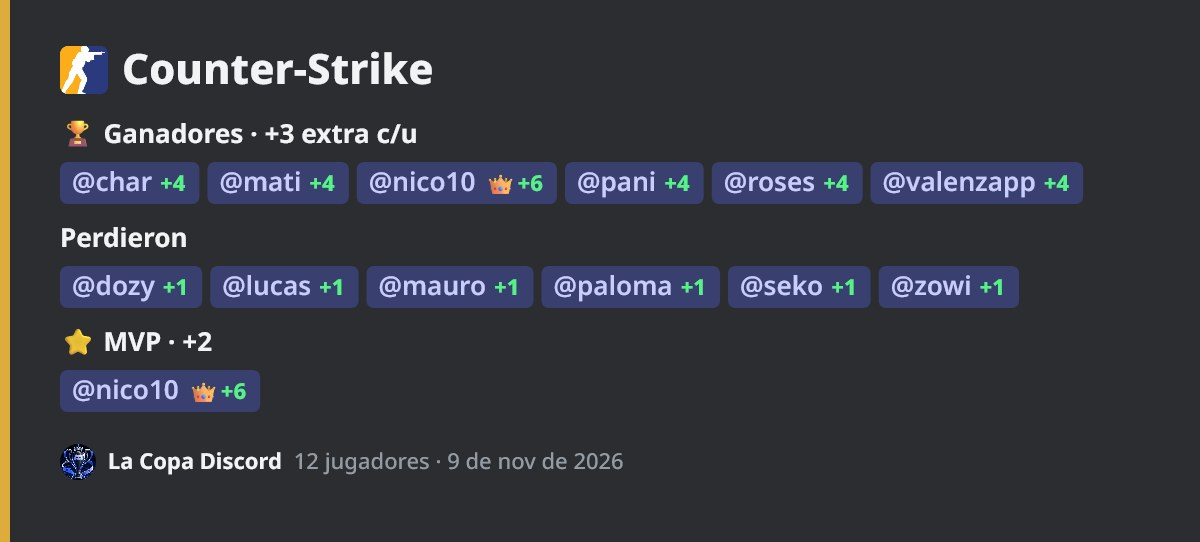
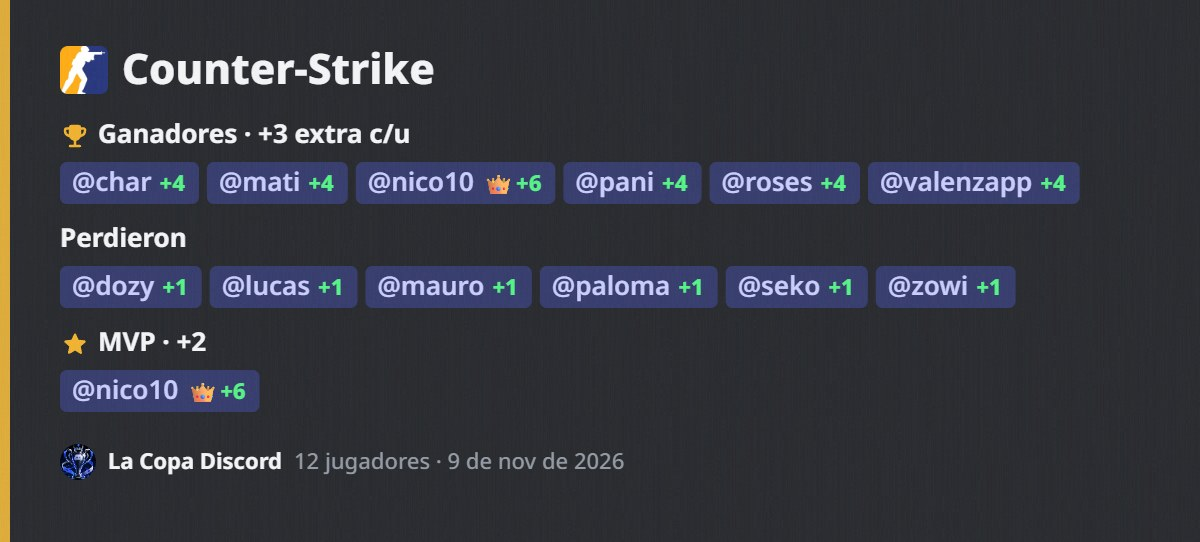
Actualizar tabla desde el modo admin

diff --git a/data.js b/data.js
@@ -1,6 +1,6 @@
 // Datos de La Copa Discord. Se edita desde el canal #admin de la página.
 window.COPA_DATA = {
- "updatedAt": 1794266610688,
+ "updatedAt": 1794267814003,
  "players": [
   "agus",
   "alan",
@@ -999,6 +999,82 @@ window.COPA_DATA = {
     "valenzapp"
    ],
    "mvp": "nico10"
+  },
+  {
+   "id": "mmw9wq75350hf",
+   "date": "2026-11-09",
+   "game": "CS",
+   "kind": "team",
+   "teams": [
+    {
+     "name": "Equipo 1",
+     "players": [
+      "nico10",
+      "pani",
+      "valenzapp",
+      "char",
+      "roses",
+      "mati"
+     ],
+     "mvp": "nico10"
+    },
+    {
+     "name": "Equipo 2",
+     "players": [
+      "lucas",
+      "mauro",
+      "zowi",
+      "paloma",
+      "seko",
+      "dozy"
+     ],
+     "mvp": null
+    }
+   ],
+   "win": 0,
+   "pts": {
+    "nico10": 4,
+    "pani": 4,
+    "valenzapp": 4,
+    "char": 4,
+    "roses": 4,
+    "mati": 4,
+    "lucas": 2,
+    "mauro": 1,
+    "zowi": 1,
+    "paloma": 1,
+    "seko": 1,
+    "dozy": 0
+   },
+   "score": null,
+   "bo": 1,
+   "maps": null,
+   "players": [
+    "nico10",
+    "pani",
+    "valenzapp",
+    "char",
+    "roses",
+    "mati",
+    "lucas",
+    "mauro",
+    "zowi",
+    "paloma",
+    "seko",
+    "dozy"
+   ],
+   "winners": [
+    "nico10",
+    "pani",
+    "valenzapp",
+    "char",
+    "roses",
+    "mati"
+   ],
+   "mvp": null,
+   "mvps": [
+    "nico10"
+   ]
   }
  ],
  "himg": {
@@ -1029,24 +1105,28 @@ window.COPA_DATA = {
  },
  "shares": {
   "m17074nv": {
-   "v": "mw8q56qayg",
-   "sig": "19w5aw6"
+   "v": "mw9wq9l921",
+   "sig": "ymmtol"
   },
   "m13jcb8": {
-   "v": "mw8q5eh0i6",
-   "sig": "18rcqkt"
+   "v": "mw9wq9nww4",
+   "sig": "yrww6k"
   },
   "t1794102865289-1794102964991": {
-   "v": "mw8q5eec13",
-   "sig": "1rmhk3c"
+   "v": "mw9wq9fz6v",
+   "sig": "evt58e"
   },
   "m1hndvs0": {
-   "v": "mw8q4vgn6u",
-   "sig": "kh9rp8"
+   "v": "mw9wq9itkq",
+   "sig": "1kh26l7"
   },
   "mmw9w0fmq5r56": {
-   "v": "mw9w0hdpnd",
-   "sig": "17hkmzd"
+   "v": "mw9wq9q4jo",
+   "sig": "l4cjmc"
+  },
+  "mmw9wq75350hf": {
+   "v": "mw9wq9v695",
+   "sig": "1j1dzs8"
   }
  }
 };

diff --git a/p/t1794102865289-1794102964991.html b/p/t1794102865289-1794102964991.html
@@ -1,10 +1,10 @@
 <!doctype html><html lang="es"><head><meta charset="utf-8"><title>Torneo Brawlhalla · La Copa Discord</title>
 <meta name="viewport" content="width=device-width,initial-scale=1">
 <meta property="og:site_name" content="La Copa Discord"><meta property="og:type" content="website">
-<meta property="og:title" content="Torneo Brawlhalla · La Copa Discord"><meta property="og:description" content="🏆 seko · 🥈 mauro · 🥉 dozy · 14 jugadores · 7 de nov de 2026">
-<meta property="og:url" content="https://atlasgitgud.github.io/copa-discord/p/t1794102865289-1794102964991.html"><meta property="og:image" content="https://atlasgitgud.github.io/copa-discord/p/t1794102865289-1794102964991.jpg?v=mw8q5eec13">
+<meta property="og:title" content="Torneo Brawlhalla · La Copa Discord"><meta property="og:description" content="Campeón: seko · 2° mauro · 3° dozy · 14 jugadores · 7 de nov de 2026">
+<meta property="og:url" content="https://atlasgitgud.github.io/copa-discord/p/t1794102865289-1794102964991.html"><meta property="og:image" content="https://atlasgitgud.github.io/copa-discord/p/t1794102865289-1794102964991.jpg?v=mw9wq9fz6v">
 <meta property="og:image:width" content="1200"><meta property="og:image:height" content="848">
-<meta name="twitter:card" content="summary_large_image"><meta name="twitter:image" content="https://atlasgitgud.github.io/copa-discord/p/t1794102865289-1794102964991.jpg?v=mw8q5eec13">
+<meta name="twitter:card" content="summary_large_image"><meta name="twitter:image" content="https://atlasgitgud.github.io/copa-discord/p/t1794102865289-1794102964991.jpg?v=mw9wq9fz6v">
 <meta name="theme-color" content="hsl(48,70%,55%)">
 <meta http-equiv="refresh" content="0; url=../#p=t1794102865289-1794102964991"></head>
 <body style="background:#313338;color:#dbdee1;font-family:system-ui,sans-serif"><script>location.replace('../#p=t1794102865289-1794102964991')</script><p><a style="color:#00a8fc" href="../#p=t1794102865289-1794102964991">Ver la partida en La Copa Discord</a></p></body></html>

diff --git a/p/m17074nv.html b/p/m17074nv.html
@@ -1,10 +1,10 @@
 <!doctype html><html lang="es"><head><meta charset="utf-8"><title>haxball · La Copa Discord</title>
 <meta name="viewport" content="width=device-width,initial-scale=1">
 <meta property="og:site_name" content="La Copa Discord"><meta property="og:type" content="website">
-<meta property="og:title" content="haxball · La Copa Discord"><meta property="og:description" content="1° pani +14 · 2° nico10 +14 · 3° mauro +13 · 4° valenzapp +10 · 5° gov +9 … · ⭐ MVP nico10 · 8 de nov de 2026">
-<meta property="og:url" content="https://atlasgitgud.github.io/copa-discord/p/m17074nv.html"><meta property="og:image" content="https://atlasgitgud.github.io/copa-discord/p/m17074nv.jpg?v=mw8q56qayg">
+<meta property="og:title" content="haxball · La Copa Discord"><meta property="og:description" content="1° pani +14 · 2° nico10 +14 · 3° mauro +13 · 4° valenzapp +10 · 5° gov +9 … · MVP nico10 · 8 de nov de 2026">
+<meta property="og:url" content="https://atlasgitgud.github.io/copa-discord/p/m17074nv.html"><meta property="og:image" content="https://atlasgitgud.github.io/copa-discord/p/m17074nv.jpg?v=mw9wq9l921">
 <meta property="og:image:width" content="1200"><meta property="og:image:height" content="648">
-<meta name="twitter:card" content="summary_large_image"><meta name="twitter:image" content="https://atlasgitgud.github.io/copa-discord/p/m17074nv.jpg?v=mw8q56qayg">
+<meta name="twitter:card" content="summary_large_image"><meta name="twitter:image" content="https://atlasgitgud.github.io/copa-discord/p/m17074nv.jpg?v=mw9wq9l921">
 <meta name="theme-color" content="hsl(167,70%,55%)">
 <meta http-equiv="refresh" content="0; url=../#p=m17074nv"></head>
 <body style="background:#313338;color:#dbdee1;font-family:system-ui,sans-serif"><script>location.replace('../#p=m17074nv')</script><p><a style="color:#00a8fc" href="../#p=m17074nv">Ver la partida en La Copa Discord</a></p></body></html>

diff --git a/p/mmw9w0fmq5r56.html b/p/mmw9w0fmq5r56.html
@@ -1,10 +1,10 @@
 <!doctype html><html lang="es"><head><meta charset="utf-8"><title>Counter-Strike · La Copa Discord</title>
 <meta name="viewport" content="width=device-width,initial-scale=1">
 <meta property="og:site_name" content="La Copa Discord"><meta property="og:type" content="website">
-<meta property="og:title" content="Counter-Strike · La Copa Discord"><meta property="og:description" content="🏆 Ganaron: char, mati, nico10, pani, roses, valenzapp · ⭐ MVP nico10 · 9 de nov de 2026">
-<meta property="og:url" content="https://atlasgitgud.github.io/copa-discord/p/mmw9w0fmq5r56.html"><meta property="og:image" content="https://atlasgitgud.github.io/copa-discord/p/mmw9w0fmq5r56.jpg?v=mw9w0hdpnd">
+<meta property="og:title" content="Counter-Strike · La Copa Discord"><meta property="og:description" content="Ganaron: char, mati, nico10, pani, roses, valenzapp · MVP nico10 · 9 de nov de 2026">
+<meta property="og:url" content="https://atlasgitgud.github.io/copa-discord/p/mmw9w0fmq5r56.html"><meta property="og:image" content="https://atlasgitgud.github.io/copa-discord/p/mmw9w0fmq5r56.jpg?v=mw9wq9q4jo">
 <meta property="og:image:width" content="1200"><meta property="og:image:height" content="542">
-<meta name="twitter:card" content="summary_large_image"><meta name="twitter:image" content="https://atlasgitgud.github.io/copa-discord/p/mmw9w0fmq5r56.jpg?v=mw9w0hdpnd">
+<meta name="twitter:card" content="summary_large_image"><meta name="twitter:image" content="https://atlasgitgud.github.io/copa-discord/p/mmw9w0fmq5r56.jpg?v=mw9wq9q4jo">
 <meta name="theme-color" content="hsl(42,70%,55%)">
 <meta http-equiv="refresh" content="0; url=../#p=mmw9w0fmq5r56"></head>
 <body style="background:#313338;color:#dbdee1;font-family:system-ui,sans-serif"><script>location.replace('../#p=mmw9w0fmq5r56')</script><p><a style="color:#00a8fc" href="../#p=mmw9w0fmq5r56">Ver la partida en La Copa Discord</a></p></body></html>

diff --git a/p/m1hndvs0.html b/p/m1hndvs0.html
@@ -1,10 +1,10 @@
 <!doctype html><html lang="es"><head><meta charset="utf-8"><title>BAPBAP · La Copa Discord</title>
 <meta name="viewport" content="width=device-width,initial-scale=1">
 <meta property="og:site_name" content="La Copa Discord"><meta property="og:type" content="website">
-<meta property="og:title" content="BAPBAP · La Copa Discord"><meta property="og:description" content="1° mauro +17 · 2° dozy +12 · 3° pani +11 · 4° valenzapp +11 · 5° roses +10 … · ⭐ MVP paloma · 8 de nov de 2026">
-<meta property="og:url" content="https://atlasgitgud.github.io/copa-discord/p/m1hndvs0.html"><meta property="og:image" content="https://atlasgitgud.github.io/copa-discord/p/m1hndvs0.jpg?v=mw8q4vgn6u">
+<meta property="og:title" content="BAPBAP · La Copa Discord"><meta property="og:description" content="1° mauro +17 · 2° dozy +12 · 3° pani +11 · 4° valenzapp +11 · 5° roses +10 … · MVP paloma · 8 de nov de 2026">
+<meta property="og:url" content="https://atlasgitgud.github.io/copa-discord/p/m1hndvs0.html"><meta property="og:image" content="https://atlasgitgud.github.io/copa-discord/p/m1hndvs0.jpg?v=mw9wq9itkq">
 <meta property="og:image:width" content="1200"><meta property="og:image:height" content="752">
-<meta name="twitter:card" content="summary_large_image"><meta name="twitter:image" content="https://atlasgitgud.github.io/copa-discord/p/m1hndvs0.jpg?v=mw8q4vgn6u">
+<meta name="twitter:card" content="summary_large_image"><meta name="twitter:image" content="https://atlasgitgud.github.io/copa-discord/p/m1hndvs0.jpg?v=mw9wq9itkq">
 <meta name="theme-color" content="hsl(28,70%,55%)">
 <meta http-equiv="refresh" content="0; url=../#p=m1hndvs0"></head>
 <body style="background:#313338;color:#dbdee1;font-family:system-ui,sans-serif"><script>location.replace('../#p=m1hndvs0')</script><p><a style="color:#00a8fc" href="../#p=m1hndvs0">Ver la partida en La Copa Discord</a></p></body></html>

diff --git a/p/m13jcb8.html b/p/m13jcb8.html
@@ -1,10 +1,10 @@
 <!doctype html><html lang="es"><head><meta charset="utf-8"><title>tft · La Copa Discord</title>
 <meta name="viewport" content="width=device-width,initial-scale=1">
 <meta property="og:site_name" content="La Copa Discord"><meta property="og:type" content="website">
-<meta property="og:title" content="tft · La Copa Discord"><meta property="og:description" content="1° agus +21 · 2° dozy +18 · 3° valenzapp +16 · 4° zowi +13 · 5° mati +13 … · ⭐ MVP agus · 8 de nov de 2026">
-<meta property="og:url" content="https://atlasgitgud.github.io/copa-discord/p/m13jcb8.html"><meta property="og:image" content="https://atlasgitgud.github.io/copa-discord/p/m13jcb8.jpg?v=mw8q5eh0i6">
+<meta property="og:title" content="tft · La Copa Discord"><meta property="og:description" content="1° agus +21 · 2° dozy +18 · 3° valenzapp +16 · 4° zowi +13 · 5° mati +13 … · MVP agus · 8 de nov de 2026">
+<meta property="og:url" content="https://atlasgitgud.github.io/copa-discord/p/m13jcb8.html"><meta property="og:image" content="https://atlasgitgud.github.io/copa-discord/p/m13jcb8.jpg?v=mw9wq9nww4">
 <meta property="og:image:width" content="1200"><meta property="og:image:height" content="700">
-<meta name="twitter:card" content="summary_large_image"><meta name="twitter:image" content="https://atlasgitgud.github.io/copa-discord/p/m13jcb8.jpg?v=mw8q5eh0i6">
+<meta name="twitter:card" content="summary_large_image"><meta name="twitter:image" content="https://atlasgitgud.github.io/copa-discord/p/m13jcb8.jpg?v=mw9wq9nww4">
 <meta name="theme-color" content="hsl(280,70%,55%)">
 <meta http-equiv="refresh" content="0; url=../#p=m13jcb8"></head>
 <body style="background:#313338;color:#dbdee1;font-family:system-ui,sans-serif"><script>location.replace('../#p=m13jcb8')</script><p><a style="color:#00a8fc" href="../#p=m13jcb8">Ver la partida en La Copa Discord</a></p></body></html>

diff --git a/p/mmw9wq75350hf.html b/p/mmw9wq75350hf.html
@@ -1,0 +1,10 @@
+<!doctype html><html lang="es"><head><meta charset="utf-8"><title>Equipo 1 vs Equipo 2 · La Copa Discord</title>
+<meta name="viewport" content="width=device-width,initial-scale=1">
+<meta property="og:site_name" content="La Copa Discord"><meta property="og:type" content="website">
+<meta property="og:title" content="Equipo 1 vs Equipo 2 · La Copa Discord"><meta property="og:description" content="Ganó Equipo 1 · MVP nico10 · 9 de nov de 2026">
+<meta property="og:url" content="https://atlasgitgud.github.io/copa-discord/p/mmw9wq75350hf.html"><meta property="og:image" content="https://atlasgitgud.github.io/copa-discord/p/mmw9wq75350hf.jpg?v=mw9wq9v695">
+<meta property="og:image:width" content="1200"><meta property="og:image:height" content="962">
+<meta name="twitter:card" content="summary_large_image"><meta name="twitter:image" content="https://atlasgitgud.github.io/copa-discord/p/mmw9wq75350hf.jpg?v=mw9wq9v695">
+<meta name="theme-color" content="hsl(42,70%,55%)">
+<meta http-equiv="refresh" content="0; url=../#p=mmw9wq75350hf"></head>
+<body style="background:#313338;color:#dbdee1;font-family:system-ui,sans-serif"><script>location.replace('../#p=mmw9wq75350hf')</script><p><a style="color:#00a8fc" href="../#p=mmw9wq75350hf">Ver la partida en La Copa Discord</a></p></body></html>
